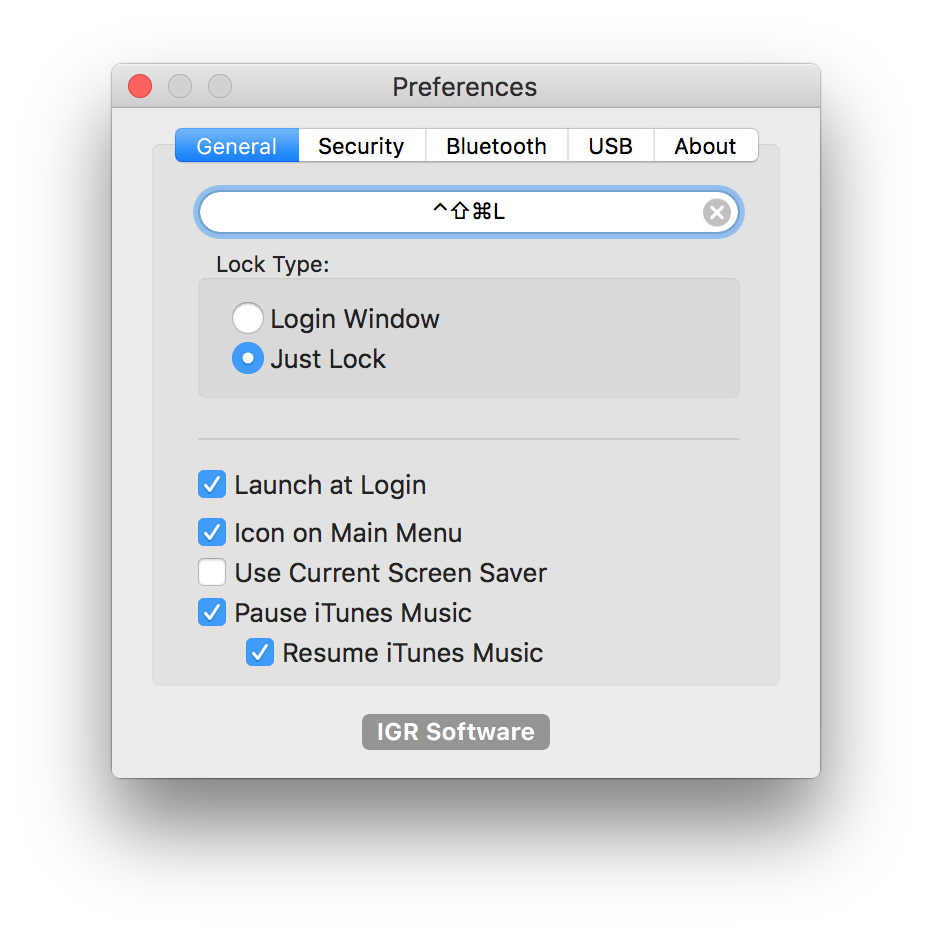
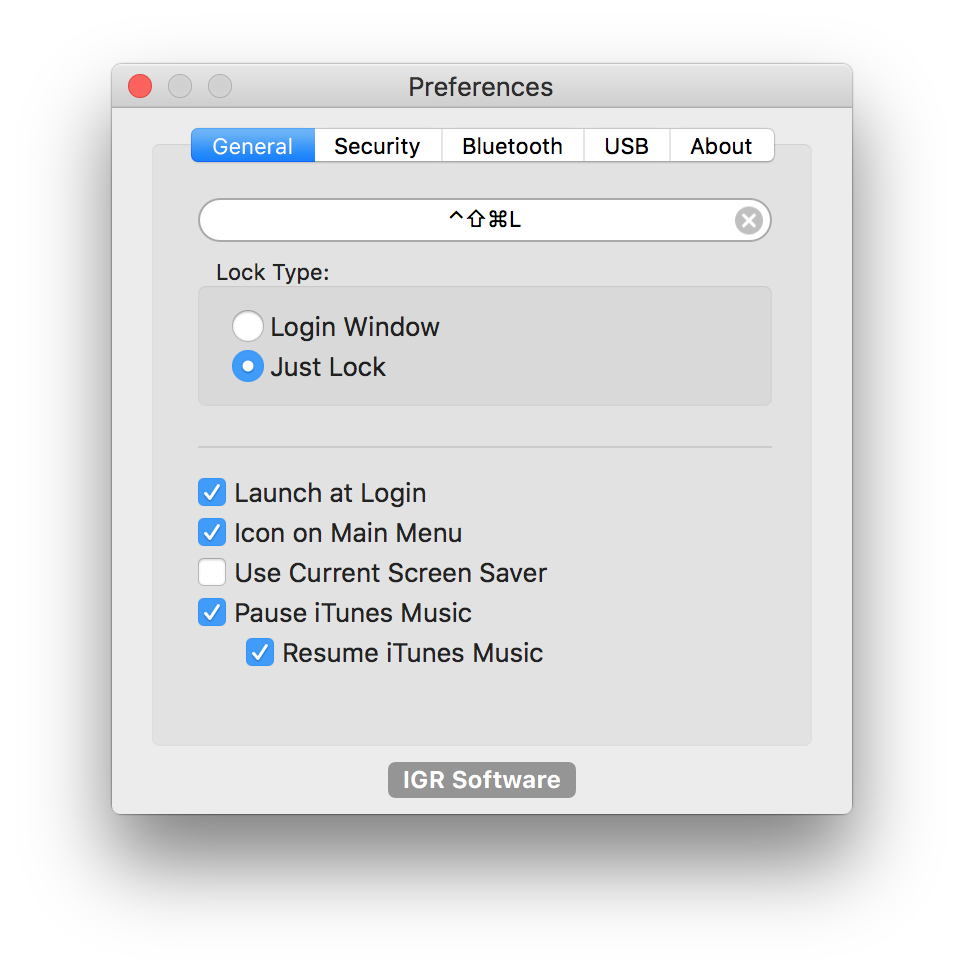
Updated Application Info

Changed region(s): [[0.0933, 0.0618, 0.9024, 0.8348], [0.1867, 0.4947, 0.5912, 0.7111], [0.1867, 0.2164, 0.2178, 0.2473]]

diff --git a/README.md b/README.md
@@ -37,10 +37,10 @@ or [nightly build] [lockmenow_beta]
 ScreenShots
 -------------
 
-<img src="https://github.com/iKorich/LockMeNow/blob/master/img/prefs_main.png?raw=true" width="457">
-<img src="https://github.com/iKorich/LockMeNow/blob/master/img/prefs_security.png?raw=true" width="457">
-<img src="https://github.com/iKorich/LockMeNow/blob/master/img/prefs_bluetooth.png?raw=true" width="457">
-<img src="https://github.com/iKorich/LockMeNow/blob/master/img/prefs_usb.png?raw=true" width="457">
+<img src="https://github.com/iKorich/LockMeNow/blob/master/img/prefs_main.png?raw=true" width="487">
+<img src="https://github.com/iKorich/LockMeNow/blob/master/img/prefs_security.png?raw=true" width="487">
+<img src="https://github.com/iKorich/LockMeNow/blob/master/img/prefs_bluetooth.png?raw=true" width="487">
+<img src="https://github.com/iKorich/LockMeNow/blob/master/img/prefs_usb.png?raw=true" width="487">
 
 Credits
 -------------
